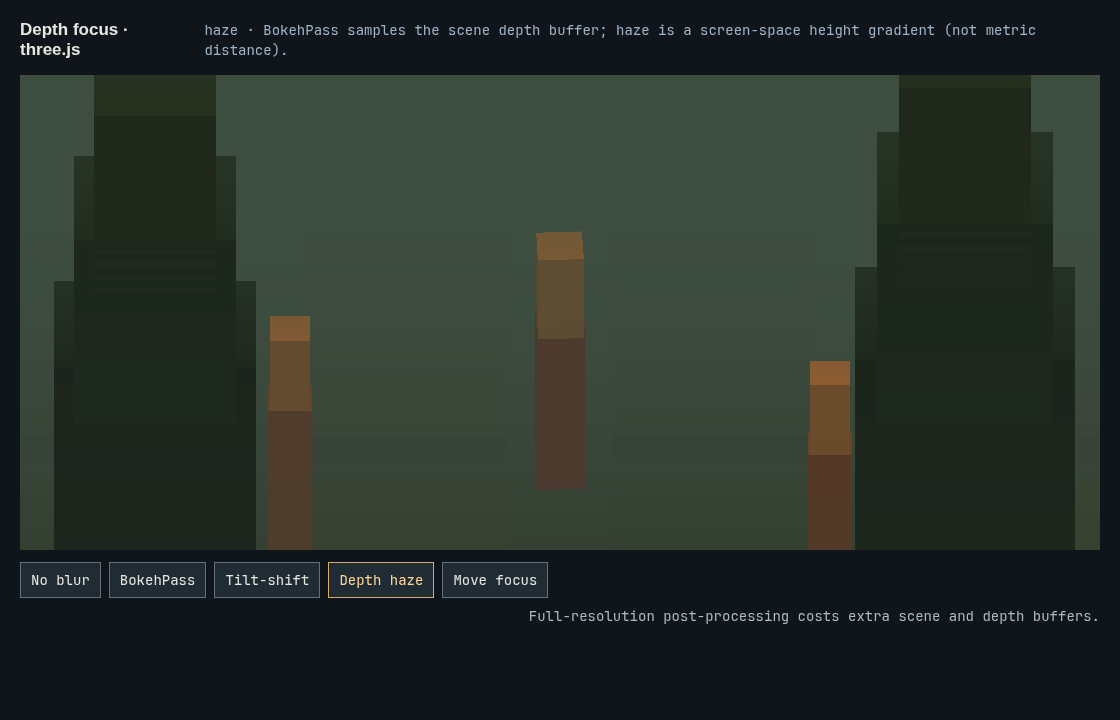
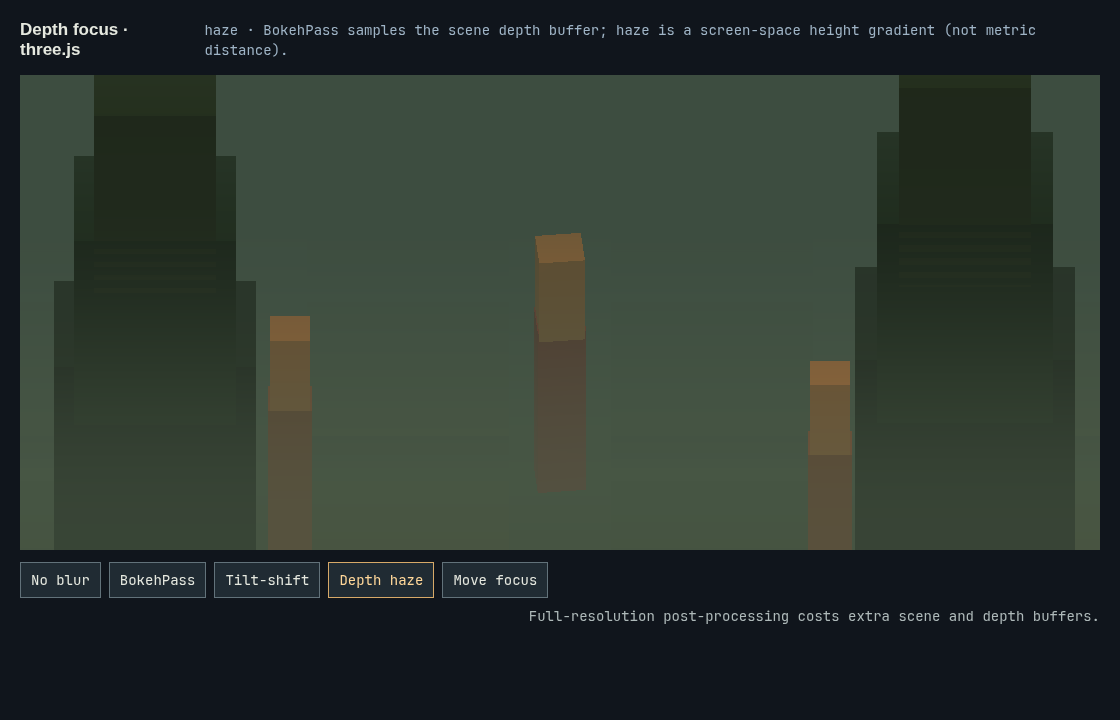
Fix depth proof comparisons

Changed region(s): [[0.0312, 0.5806, 0.25, 0.7639], [0.75, 0.6111, 0.9688, 0.7639]]

diff --git a/prototypes/hd2d-depth-focus/three.html b/prototypes/hd2d-depth-focus/three.html
@@ -37,12 +37,13 @@
     for(const [x,z] of [[-3,-8],[3,-7],[-4,1],[4,2]]){const m=new THREE.Mesh(new THREE.BoxGeometry(.65,1.25,.55),mat(0xc17c50));m.position.set(x,-.95,z);scene.add(m);const head=new THREE.Mesh(new THREE.BoxGeometry(.6,.55,.55),mat(0xe2b580));head.position.set(x,-.05,z);scene.add(head)}
     const hero=new THREE.Group(); const body=new THREE.Mesh(new THREE.BoxGeometry(.72,1.25,.6),mat(0xc25448));body.position.y=-.62;hero.add(body);const head=new THREE.Mesh(new THREE.BoxGeometry(.68,.62,.62),mat(0xe5bb83));head.position.y=.25;hero.add(head);hero.position.set(0,-.1,0);scene.add(hero);
     const composer=new EffectComposer(renderer); composer.addPass(new RenderPass(scene,camera));
-    const bokeh=new BokehPass(scene,camera,{focus:18,aperture:.00012,maxblur:.003}); composer.addPass(bokeh);
-    const hazePass=new ShaderPass({uniforms:{tDiffuse:{value:null},amount:{value:0},color:{value:new THREE.Color(0xa7b4a2)}},vertexShader:`varying vec2 vUv;void main(){vUv=uv;gl_Position=projectionMatrix*modelViewMatrix*vec4(position,1.);}`,fragmentShader:`uniform sampler2D tDiffuse;uniform float amount;uniform vec3 color;varying vec2 vUv;void main(){vec4 c=texture2D(tDiffuse,vUv);float d=smoothstep(.25,.95,1.-vUv.y);c.rgb=mix(c.rgb,color,d*amount);gl_FragColor=c;}`});
+    const bokeh=new BokehPass(scene,camera,{focus:18,aperture:.00012,maxblur:.003}); bokeh.enabled=false; composer.addPass(bokeh);
+    const hazePass=new ShaderPass({uniforms:{tDiffuse:{value:null},amount:{value:0.38},color:{value:new THREE.Color(0xa7b4a2)}},vertexShader:`varying vec2 vUv;void main(){vUv=uv;gl_Position=projectionMatrix*modelViewMatrix*vec4(position,1.);}`,fragmentShader:`uniform sampler2D tDiffuse;uniform float amount;uniform vec3 color;varying vec2 vUv;void main(){vec4 c=texture2D(tDiffuse,vUv);float d=smoothstep(.25,.95,1.-vUv.y);c.rgb=mix(c.rgb,color,d*amount);gl_FragColor=c;}`}); hazePass.enabled=false;
     let mode='off',focus=18,t=0;
     function resize(){const w=canvas.clientWidth,h=canvas.clientHeight;renderer.setSize(w,h,false);composer.setSize(w,h);camera.left=-8;camera.right=8;camera.top=8*h/w/2;camera.bottom=-camera.top;camera.updateProjectionMatrix()}
     new ResizeObserver(resize).observe(canvas); resize();
-    buttons.forEach(b=>b.addEventListener('click',()=>{mode=b.dataset.mode;buttons.forEach(x=>x.setAttribute('aria-pressed',String(x.dataset.mode===mode)));bokeh.enabled=mode==='bokeh'||mode==='tilt';hazePass.enabled=mode==='haze';if(!composer.passes.includes(hazePass))composer.addPass(hazePass);if(mode==='tilt'){bokeh.materialBokeh.uniforms['focus'].value=focus;bokeh.materialBokeh.uniforms['aperture'].value=.00028}else{bokeh.materialBokeh.uniforms['aperture'].value=.00012}status.textContent=`${mode} · BokehPass samples the scene depth buffer; haze is a screen-space height gradient (not metric distance).`;}));
+    composer.addPass(hazePass);
+    buttons.forEach(b=>b.addEventListener('click',()=>{mode=b.dataset.mode;buttons.forEach(x=>x.setAttribute('aria-pressed',String(x.dataset.mode===mode)));bokeh.enabled=mode==='bokeh'||mode==='tilt';hazePass.enabled=mode==='haze';if(mode==='tilt'){bokeh.materialBokeh.uniforms['focus'].value=focus;bokeh.materialBokeh.uniforms['aperture'].value=.00028}else{bokeh.materialBokeh.uniforms['aperture'].value=.00012}status.textContent=`${mode} · BokehPass samples the scene depth buffer; haze is a screen-space height gradient (not metric distance).`;}));
     document.querySelector('[data-mode="focus"]').addEventListener('click',()=>{focus=focus===18?10:18;bokeh.materialBokeh.uniforms['focus'].value=focus;hero.position.x=focus===18?0:2;status.textContent=`Focus distance ${focus}; marker shifts to demonstrate focus pumping and subject lock.`});
     function frame(){t+=.012;hero.position.y=-.1+Math.sin(t)*.08;hero.rotation.y=Math.sin(t*.4)*.12;if(mode==='bokeh'||mode==='tilt')bokeh.materialBokeh.uniforms['focus'].value=focus;composer.render();requestAnimationFrame(frame)} frame();
   </script>

diff --git a/prototypes/hd2d-depth-focus/layered.html b/prototypes/hd2d-depth-focus/layered.html
@@ -49,8 +49,6 @@
     </nav>
   </main>
   <script>
-    const stage = document.querySelector('#stage');
-    const labels = [...document.querySelectorAll('.label')];
     const bands = [...document.querySelectorAll('.band')];
     const hero = document.querySelector('#hero');
     const status = document.querySelector('#status');
